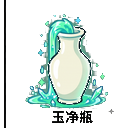
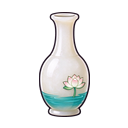
feat(assets): 完成 4 个道具图标并接入，台账更新至 85/108
- 通用碎片、紧箍咒、玉净瓶、道具版开山斧处理为 128×128 真透明并替换 items/
- 边缘色键残留 0~11 像素，无可见绿边或洋红边
- 总纲升至 v2.13，待办清单与 P0 提示词包同步 85/108，剩余 23 张

diff --git a/docs/待办清单-素材与上线.md b/docs/待办清单-素材与上线.md
@@ -6,7 +6,7 @@
 
 > 生成日期：2026-07-09
 > 最近修订：2026-10-26
-> 当前状态：玩法与 UI 功能基本完成；P0 已处理并接入 81/108，剩余 27 张；14 个英雄 1 阶、14 张英雄碎片、20 张小兵、10 个普通敌人、9 个精英敌人、9 个 BOSS 和唐僧已完成本地处理与接入，9 个 BOSS 待真实棋盘或 UI 截图验收；真机验证尚未开始
+> 当前状态：玩法与 UI 功能基本完成；P0 已处理并接入 85/108，剩余 23 张；14 个英雄 1 阶、14 张英雄碎片、20 张小兵、10 个普通敌人、9 个精英敌人、9 个 BOSS、5 个道具和唐僧已完成本地处理与接入，9 个 BOSS 待真实棋盘或 UI 截图验收；真机验证尚未开始
 > 使用方式：按 P0、第二批两个批次执行，做完一项改 `[ ]` 为 `[x]`
 
 ---
@@ -50,12 +50,12 @@
 - [x] `仙桃.png`：64×64，绿幕版叶子保留，透明边缘无亮绿色残留
 - [x] `战斗背景_森林.png`：750×1334，经确认保留小面积环境题字
 - [x] `art-source/references/风格板.png`：早期流程留档；含已替换素材，不再作为后续生图参考
-- [ ] 其余 27 个 P0 运行时静态资源
-- [x] 除上述 81 张已处理并接入素材外，其余 27 张旧 P0 PNG 仍只作为开发期占位，不参与验收；`青狮.png`、`白象.png`、`关卡地图背景.png` 3 张无代码引用的非 P0 旧图已删除（2026-10-26）
+- [ ] 其余 23 个 P0 运行时静态资源
+- [x] 除上述 85 张已处理并接入素材外，其余 23 张旧 P0 PNG 仍只作为开发期占位，不参与验收；`青狮.png`、`白象.png`、`关卡地图背景.png` 3 张无代码引用的非 P0 旧图已删除（2026-10-26）
 
 ### 现有资产盘点
 
-`public/assets/` 当前有 108 张运行时 PNG：其中 81 张已处理并接入、27 张仍是旧版 P0 占位。旧文件只用于避免现有游戏失去降级资源，不代表可用美术，也不按代码引用情况删除。P0 目标是 108 张：
+`public/assets/` 当前有 108 张运行时 PNG：其中 85 张已处理并接入、23 张仍是旧版 P0 占位。旧文件只用于避免现有游戏失去降级资源，不代表可用美术，也不按代码引用情况删除。P0 目标是 108 张：
 
 | 类别 | 现有数量 | 处理结论 |
 | --- | ---: | --- |
@@ -64,7 +64,7 @@
 | 英雄 `1阶` | 14 | 已全部采用当前最终图并完成 96×96 处理 |
 | 英雄碎片 | 14 | 已全部按统一玉牌徽记风格完成并接入 `HeroShard.ts` |
 | 敌人 | 28 | 28 张 P0 已全部处理并接入，其中 9 个 BOSS 待截图验收 |
-| 道具 | 5 | 仅 `九转仙丹` 已验收；其余待重做 |
+| 道具 | 5 | 5 张已全部处理并接入 |
 | 法宝 | 12 | 仅 `开山斧` 已验收；其余待重做 |
 | UI、背景、锁格 | 14 | 14 张 P0 中仅 `仙桃`、`战斗背景_森林` 已验收，继续补 12 张 |
 
@@ -72,7 +72,7 @@
 
 ### 核心缺口
 
-- [ ] 其余 27 张 P0 静态图生成并验收
+- [ ] 其余 23 张 P0 静态图生成并验收
 - [ ] 全部 UI 界面视觉重制，包括面板、按钮、图标、背景、状态和排版 — **0 个界面最终验收**
 - [ ] `VisualPainter.ts`、`BattleUiPrimitives.ts` 等程序化占位视觉替换为最终资源
 - [ ] 【第二批】全部角色左右向静态定稿图；每个角色必须成对交付 `stand_right` + `stand_left`
@@ -154,12 +154,12 @@
 | 普通敌人 | 由 `image/十个小怪` 按中文标签统一处理，用户确认旧风格例外 | 10 张 | [x] 10/10 |
 | 精英敌人 | 9 个全部生成、处理并接入 | 9 张 | [x] 9/9 |
 | BOSS `phase_1` | 9 个全部处理并接入预加载，待真实棋盘或 UI 截图验收 | 9 张 | [x] 9/9 已处理 |
-| 道具图标 | 全部新生成；九转仙丹已完成 | 5 张 | [x] 1/5 |
+| 道具图标 | 5 张全部生成、处理并接入 | 5 张 | [x] 5/5 |
 | 法宝图标 | 全部新生成；开山斧已完成 | 12 张 | [x] 1/12 |
 | UI、背景、锁格 | 12 个 UI 图标 + 森林战斗背景 + 五行山锁格；仙桃和森林背景已完成 | 14 张 | [x] 2/14 |
-| **合计** | P0 运行时静态资源 | **108 张** | [x] 81/108 已处理 |
+| **合计** | P0 运行时静态资源 | **108 张** | [x] 85/108 已处理 |
 
-> P0 每张只做中立静态图，不带方向。`stand_right`、`stand_left` 从第二批开始成对交付。`81/108` 表示已处理并接入；9 个 BOSS 仍需真实棋盘或 UI 截图验收。
+> P0 每张只做中立静态图，不带方向。`stand_right`、`stand_left` 从第二批开始成对交付。`85/108` 表示已处理并接入；9 个 BOSS 仍需真实棋盘或 UI 截图验收。
 
 ### 2.3 P0 UI、背景、锁格与旧图隔离
 

diff --git a/docs/Gemini-P0单资产提示词包.md b/docs/Gemini-P0单资产提示词包.md
@@ -365,7 +365,7 @@ UI 图标统一用第 2.3 节模板；背景和锁格使用各自的专属模板
 
 历史 brief：Q 版青年僧人，面容清秀，白色内袍、红金锦斓袈裟、五佛冠、僧鞋；右手竖持一根九环锡杖，左手结印。当前游戏已采用现有唐僧图，本 brief 不再执行。
 
-以上分组合计 **108 个运行时文件**。当前已处理并接入 **81/108**，剩余 27 张：其中 20 张小兵、10 个普通敌人和唐僧来自旧风格素材处理，属于用户确认例外，不计作 v2 新生成素材；其余 50 张为现行 v2 已处理素材。
+以上分组合计 **108 个运行时文件**。当前已处理并接入 **85/108**，剩余 23 张：其中 20 张小兵、10 个普通敌人和唐僧来自旧风格素材处理，属于用户确认例外，不计作 v2 新生成素材。
 
 ## 5. P0 生成顺序
 
@@ -376,7 +376,7 @@ UI 图标统一用第 2.3 节模板；背景和锁格使用各自的专属模板
 5. `[x]` 14 个英雄碎片已全部完成并接入 `HeroShard.ts`。
 6. `[x]` 9 个精英敌人已全部完成。
 7. `[x]` 生成 9 个 BOSS。
-8. `[ ]` 生成剩余 4 个道具、11 个法宝和 12 个 UI、背景、锁格。
+8. `[ ]` 生成剩余 11 个法宝和 12 个 UI、背景、锁格。
 9. `[ ]` 全部通过后，统一接入并做真实棋盘截图验收。
 
 ## 6. 本地后处理和验收
